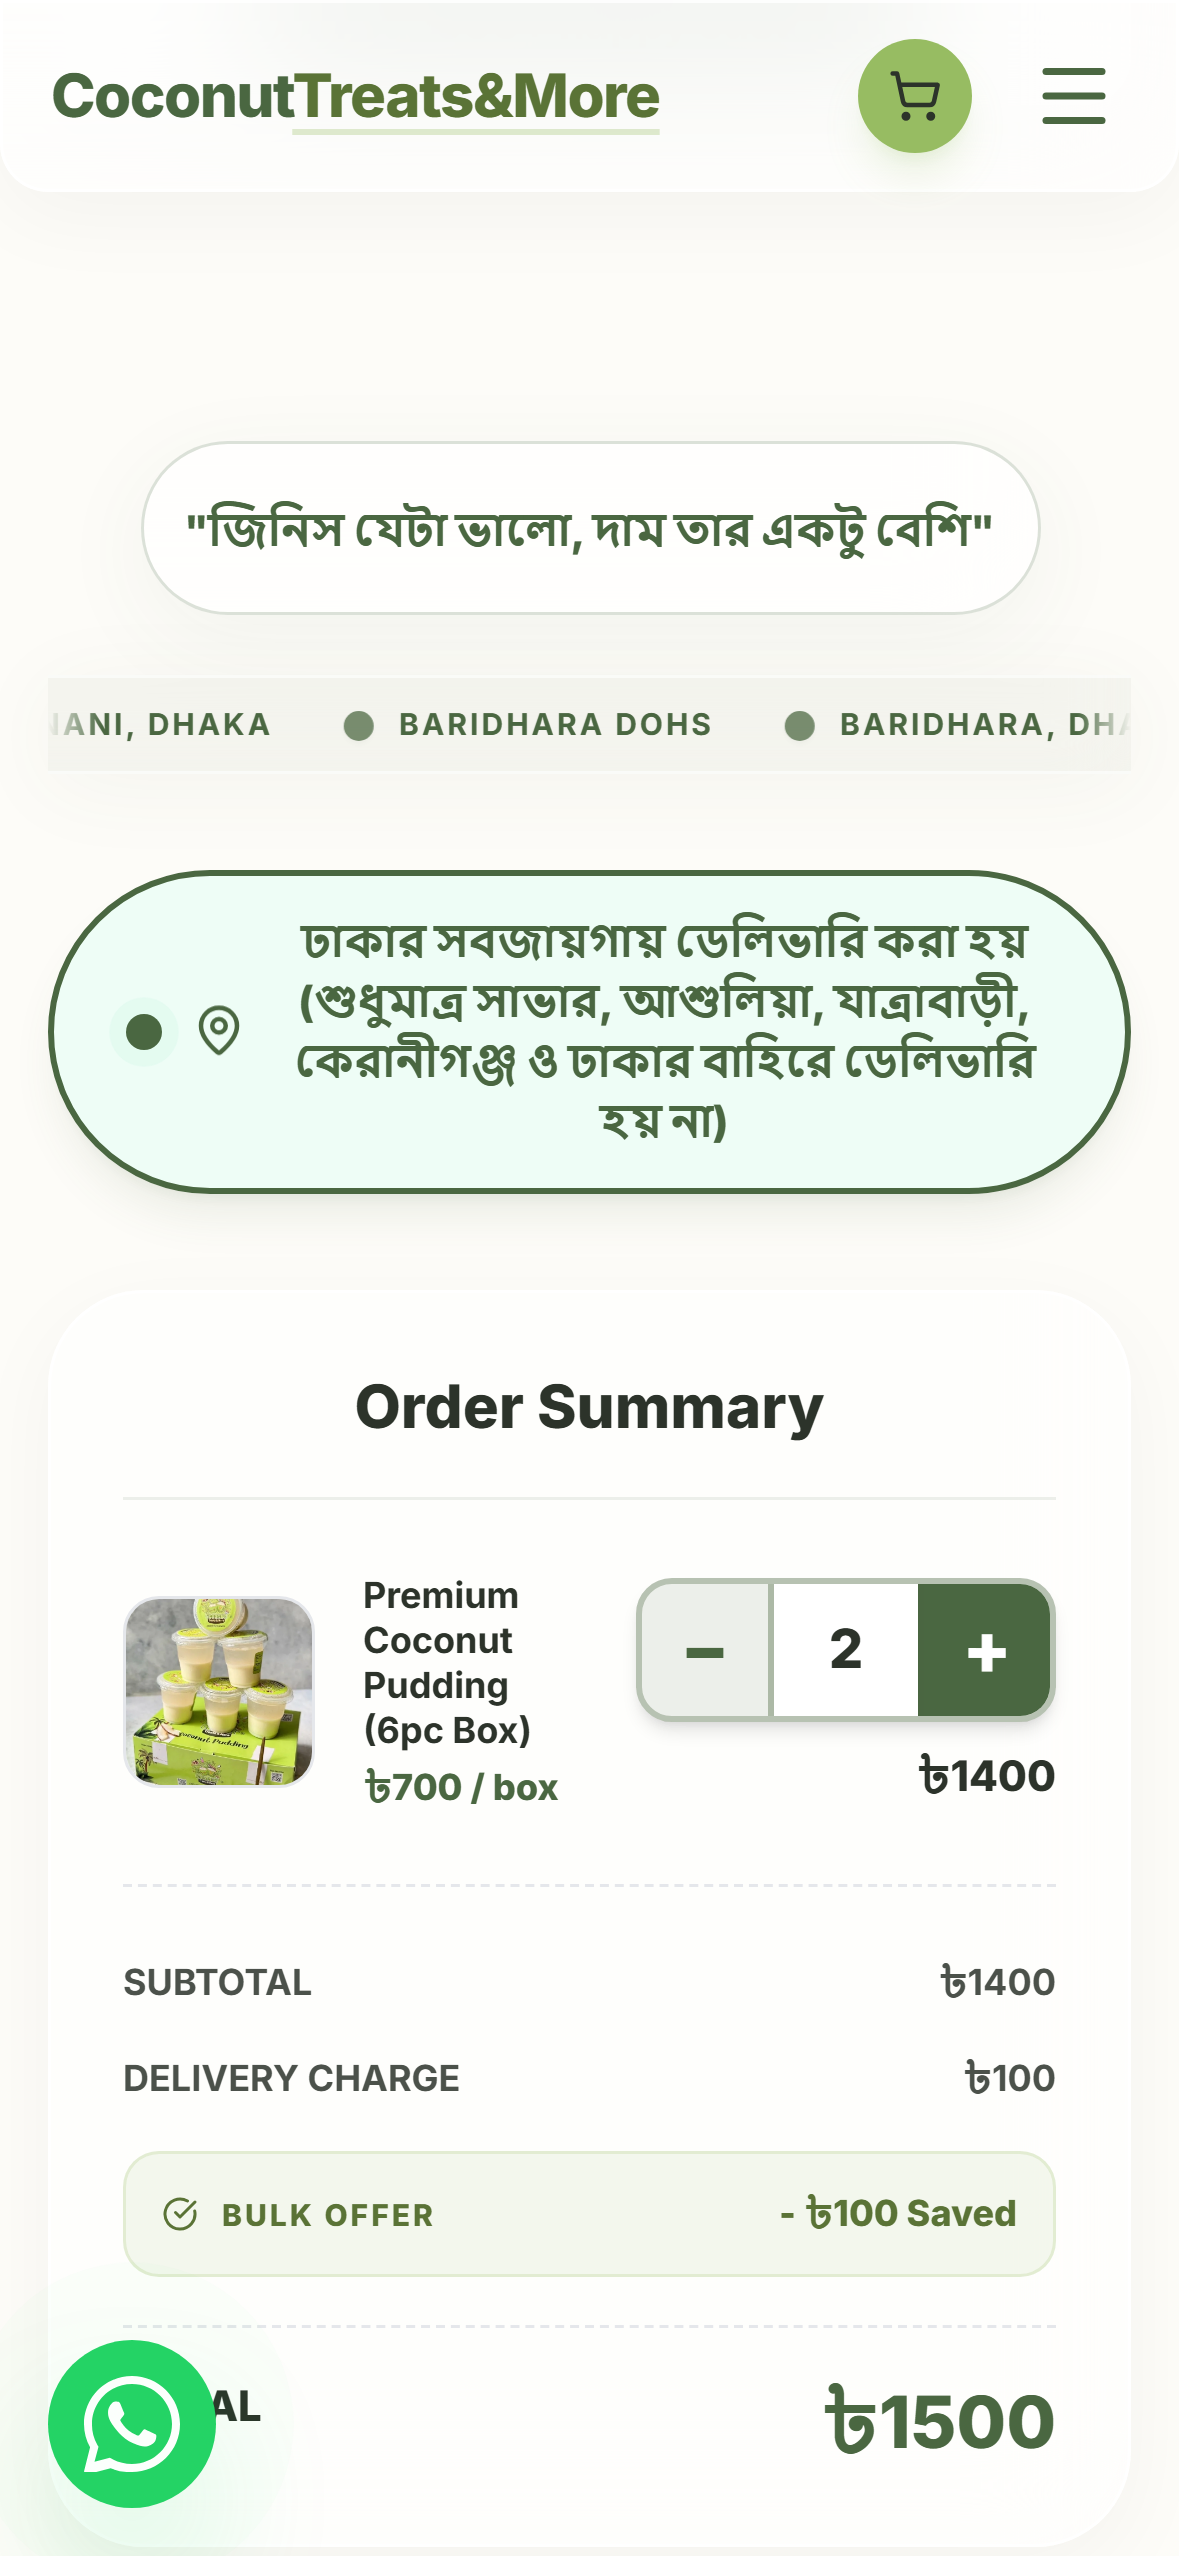
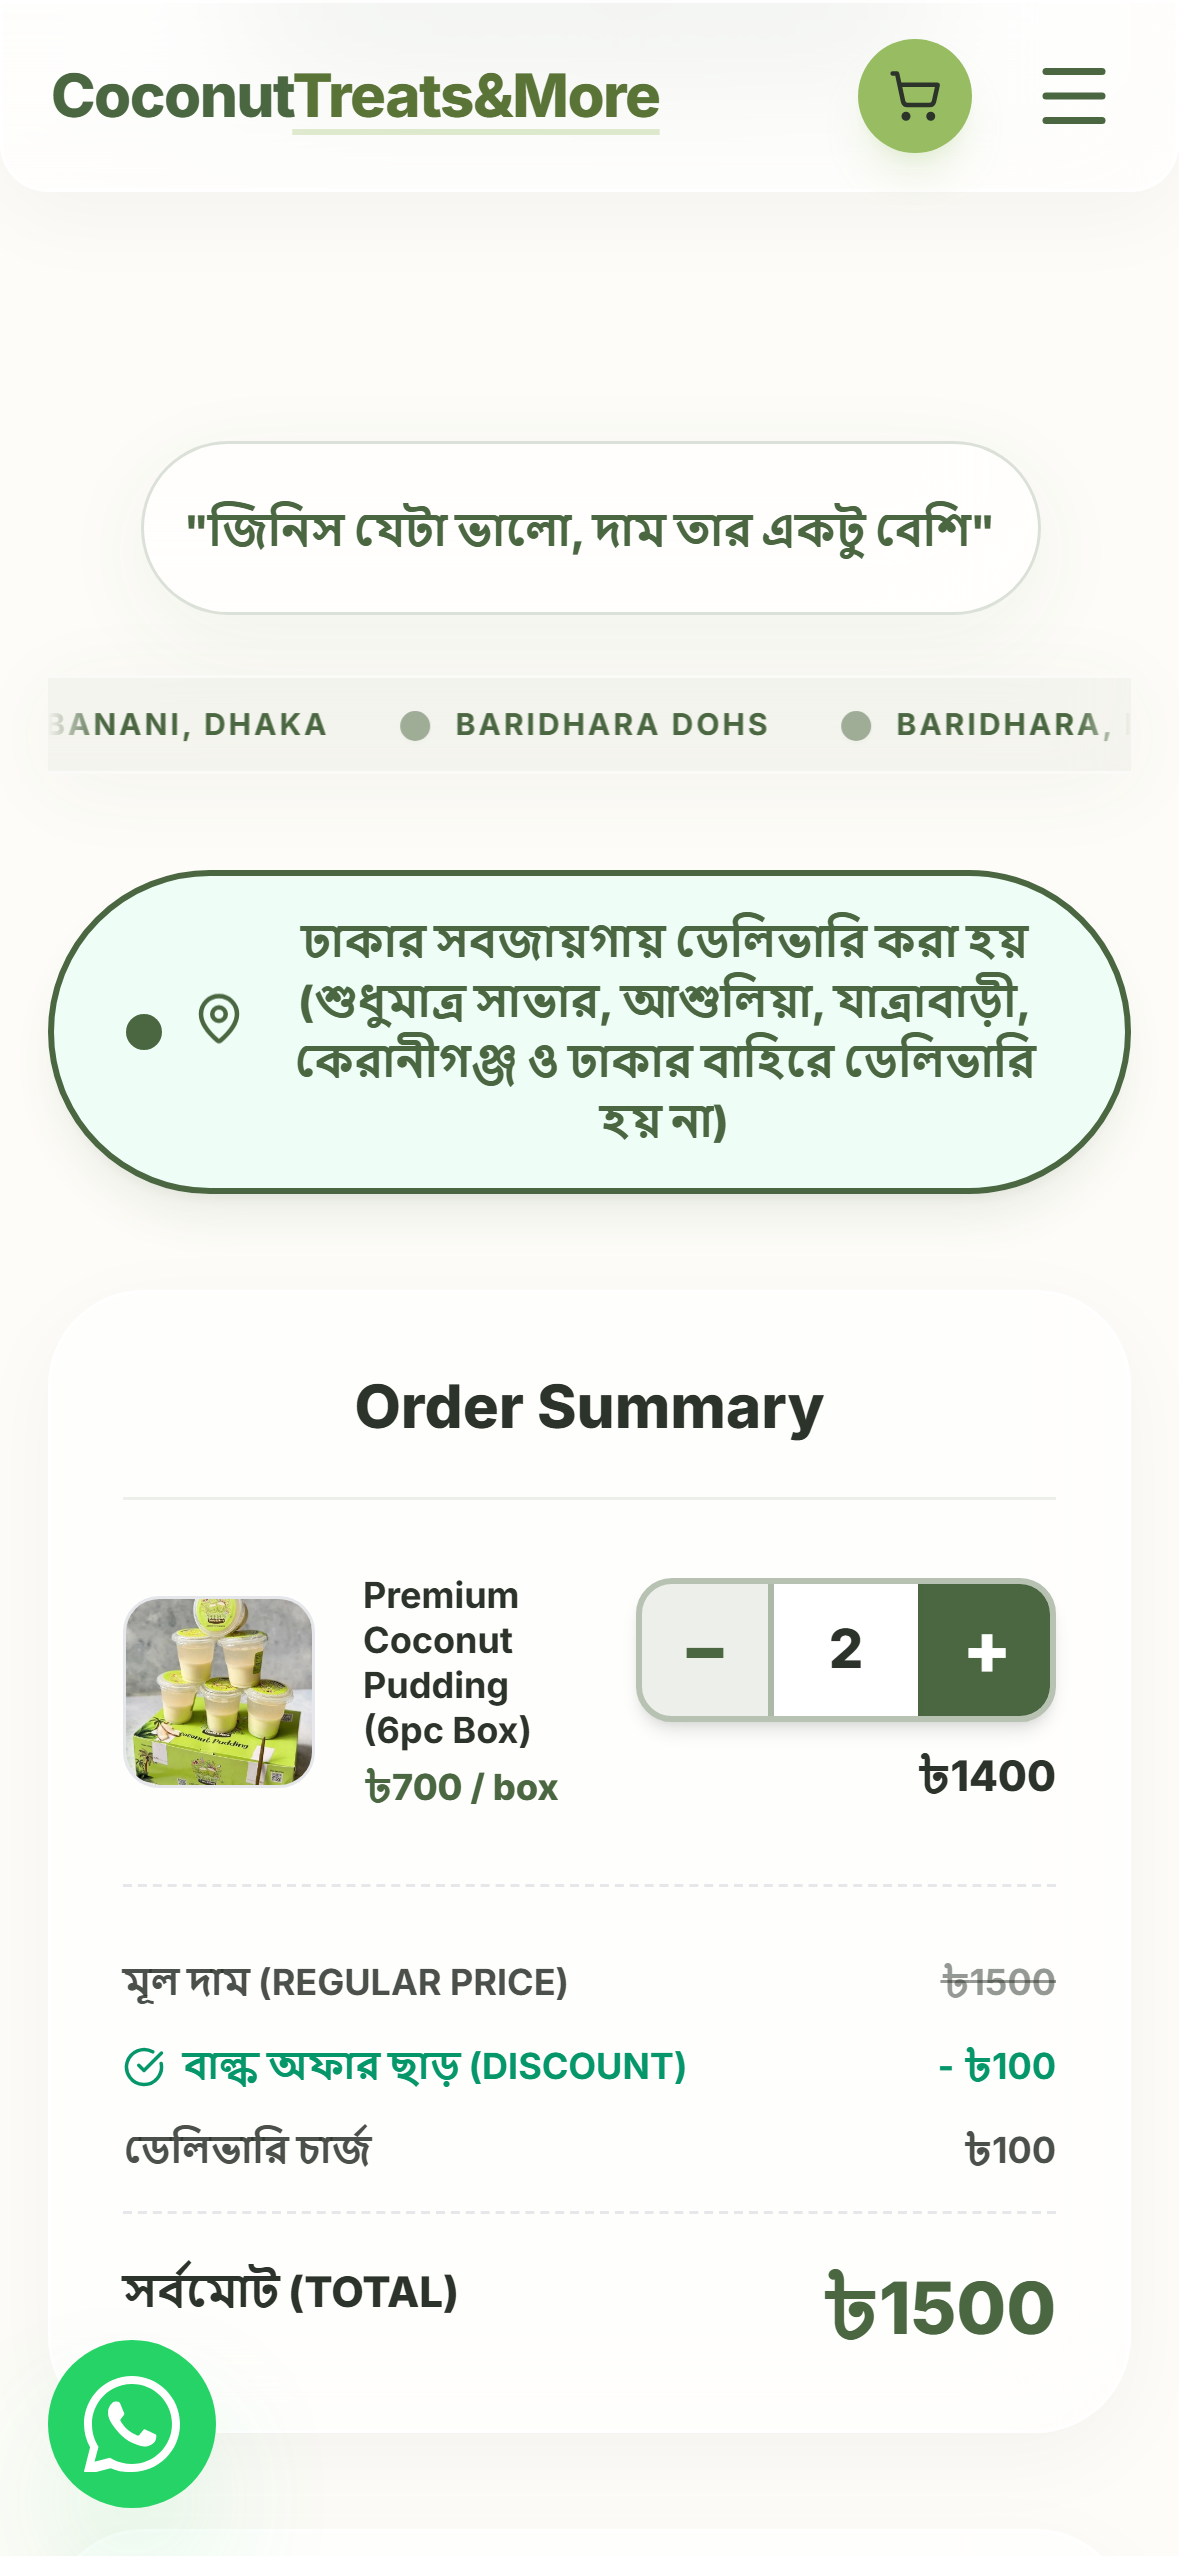
Perf & UX: Add scroll margins for fixed navbar, enhance address focus, ESC modal accessibility, and defensive backend order payload handling

diff --git a/src/pages/Home/sections/Order/Order.jsx b/src/pages/Home/sections/Order/Order.jsx
@@ -240,7 +240,7 @@ const Order = () => {
   };
 
   return (
-    <section id="order" className="pt-4 sm:pt-6 pb-16 sm:pb-24 px-4 overflow-hidden relative">
+    <section id="order" className="scroll-mt-24 pt-4 sm:pt-6 pb-16 sm:pb-24 px-4 overflow-hidden relative">
       <style>
         {`
           @keyframes badgeBlink {
@@ -333,16 +333,16 @@ const Order = () => {
           <div
             className="lg:col-span-3 glass-panel p-6 sm:p-8 md:p-10 rounded-[2rem]"
           >
-            <div className="flex flex-col sm:flex-row sm:items-center justify-between gap-2.5 mb-6 sm:mb-8 text-center sm:text-left">
+            <div className="flex flex-col sm:flex-row sm:items-center justify-between gap-3 mb-6 sm:mb-8 text-center sm:text-left">
               <h3 className="text-2xl sm:text-3xl font-black text-husk">
                 Place Your Order
               </h3>
-              <span className="delivery-blink-badge font-black text-xs sm:text-sm text-primary bg-emerald-50/95 border-2 border-primary px-4 py-2 rounded-2xl sm:rounded-full inline-flex items-center justify-center gap-2 shadow-sm self-center sm:self-auto text-center">
-                <span className="relative flex h-2.5 w-2.5 flex-shrink-0">
+              <span className="delivery-blink-badge font-black text-xs sm:text-sm text-primary bg-emerald-50/95 border border-primary/30 px-3.5 py-1.5 rounded-full inline-flex items-center justify-center gap-2 shadow-sm self-center sm:self-auto text-center">
+                <span className="relative flex h-2 w-2 flex-shrink-0">
                   <span className="animate-ping absolute inline-flex h-full w-full rounded-full bg-emerald-400 opacity-75"></span>
-                  <span className="relative inline-flex rounded-full h-2.5 w-2.5 bg-primary"></span>
+                  <span className="relative inline-flex rounded-full h-2 w-2 bg-primary"></span>
                 </span>
-                <span className="font-black tracking-tight">ঢাকার সবজায়গায় ডেলিভারি করা হয় (শুধুমাত্র সাভার, আশুলিয়া, যাত্রাবাড়ী, কেরানীগঞ্জ ও ঢাকার বাহিরে ডেলিভারি হয় না)</span>
+                <span className="font-black tracking-tight">🚚 ঢাকার ভেতরে হোম ডেলিভারি</span>
               </span>
             </div>
 
@@ -384,7 +384,10 @@ const Order = () => {
               </div>
 
               {/* Delivery Address Group Container */}
-              <div className="bg-white border-2 border-primary/20 rounded-[1.5rem] sm:rounded-[2rem] p-5 sm:p-7 space-y-5">
+              <div
+                onClick={() => document.getElementById('customer-address')?.focus()}
+                className="bg-white border-2 border-primary/20 rounded-[1.5rem] sm:rounded-[2rem] p-5 sm:p-7 space-y-5 cursor-text"
+              >
                 <p className="text-xs sm:text-sm font-black text-primary uppercase tracking-widest border-b-2 border-primary/10 pb-3 mb-2 flex items-center gap-2">
                   <span>📍</span> Delivery Address / ডেলিভারি ঠিকানা
                 </p>

diff --git a/api/submit-order.js b/api/submit-order.js
@@ -24,13 +24,20 @@ export default async function handler(req, res) {
       }
     }
     
+    // Support both uppercase and lowercase keys defensively
+    const phone = orderData?.Phone || orderData?.phone;
+    const address = orderData?.Address || orderData?.address;
+
     // Server-side payload validation to prevent spam/corrupted orders
-    if (!orderData || !orderData.Phone || !orderData.Address) {
+    if (!orderData || !phone || !address) {
       return res.status(400).json({
         success: false,
         message: "Required order details are missing (Phone and Address are required)."
       });
     }
+
+    orderData.Phone = phone;
+    orderData.Address = address;
 
     // New Apps Script deployed from coconuttreatsmore@gmail.com
     const googleScriptUrl = process.env.GOOGLE_SCRIPT_URL || "https://script.google.com/macros/s/AKfycbygtsftenbteNaL_IUxy1a82Yy8Jy__jAHeK26NRG0HUrH_jVnCMkAeOyITvQ-lzW9f/exec";

diff --git a/dist/index.html b/dist/index.html
@@ -41,10 +41,10 @@
 
   <!-- Preload LCP Logo Asset — Stable public/ path (not hashed by Vite) -->
   <link rel="preload" href="/logo.webp" as="image" fetchpriority="high" type="image/webp" imagesizes="128px" />
-  <script type="module" crossorigin src="/assets/index-bnv7JBxQ.js"></script>
+  <script type="module" crossorigin src="/assets/index-CX804Uxg.js"></script>
   <link rel="modulepreload" crossorigin href="/assets/vendor-libs-D6fkXHED.js">
   <link rel="modulepreload" crossorigin href="/assets/vendor-react-4A9TWBAh.js">
-  <link rel="stylesheet" crossorigin href="/assets/style-BuV96xrK.css">
+  <link rel="stylesheet" crossorigin href="/assets/style-CNdVudGf.css">
 </head>
 
 <body>

diff --git a/src/pages/Home/sections/Hero/PromotionPopup.jsx b/src/pages/Home/sections/Hero/PromotionPopup.jsx
@@ -1,8 +1,18 @@
-import React from "react";
+import React, { useEffect } from "react";
 import { X, Sparkles, ShoppingBag, CheckCircle } from "lucide-react";
 import CountdownTimer from "../../../../components/CountdownTimer";
 
 const PromotionPopup = ({ isOpen, onClose, onClaim }) => {
+  useEffect(() => {
+    const handleKeyDown = (e) => {
+      if (e.key === "Escape" && isOpen && onClose) {
+        onClose();
+      }
+    };
+    window.addEventListener("keydown", handleKeyDown);
+    return () => window.removeEventListener("keydown", handleKeyDown);
+  }, [isOpen, onClose]);
+
   if (!isOpen) return null;
 
   const handleClaim = (e) => {

diff --git a/src/pages/Home/sections/Order/OrderSuccessPopup.jsx b/src/pages/Home/sections/Order/OrderSuccessPopup.jsx
@@ -17,6 +17,16 @@ const OrderSuccessPopup = ({ isOpen, onClose, customerName }) => {
     }
   }, [isOpen]);
 
+  useEffect(() => {
+    const handleKeyDown = (e) => {
+      if (e.key === "Escape" && isOpen && onClose) {
+        onClose();
+      }
+    };
+    window.addEventListener("keydown", handleKeyDown);
+    return () => window.removeEventListener("keydown", handleKeyDown);
+  }, [isOpen, onClose]);
+
   if (!shouldRender) return null;
 
   return (

diff --git a/src/pages/Home/sections/Testimonials/Testimonials.jsx b/src/pages/Home/sections/Testimonials/Testimonials.jsx
@@ -48,7 +48,7 @@ const MarqueeRow = ({ images, duration = 30 }) => (
 
 const Testimonials = () => {
     return (
-        <section id="reviews" className="py-24 overflow-hidden relative">
+        <section id="reviews" className="scroll-mt-24 py-24 overflow-hidden relative">
             <style>
                 {`
                   @keyframes scrollReviews {
